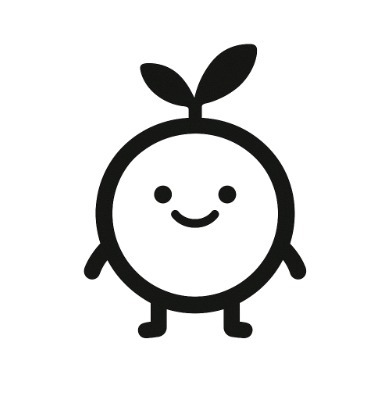
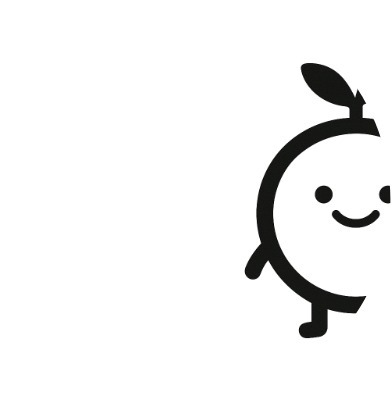
added state on page app so that Settings.js and NavBar.jsx can communicate. hwne updating image or name in Settings.jsx will also show on NavBar.jsx. Also fixed a bug where the image wouldnt have the appropriate Xposition when updating a state in Settings.jsx. I just had passed the wrong state varia

Changed region(s): [[0.2143, 0.09, 0.9796, 0.87], [0.7959, 0.45, 1.0, 0.57], [0.3673, 0.45, 0.6122, 0.57]]

diff --git a/app/frontend/pages/NavBar.jsx b/app/frontend/pages/NavBar.jsx
@@ -3,7 +3,7 @@ import { Link, useNavigate, Outlet } from 'react-router-dom'
 import { useEffect, useRef, useState } from 'react'
 import { SideBar, UserIcon, Logout, Settings, DiagonalArrow } from '../components/svgs/UtilIcons'
 
-export function NavBar(){
+export function NavBar({updatenavbarstate}){
 
     const navigate = useNavigate()
     const navloggedRef = useRef()
@@ -59,7 +59,6 @@ export function NavBar(){
                 loginRef.current.classList.add('display_none')
                 navloggedRef.current.classList.remove('display_none')
                 navloggedRef.current.classList.add('flex')
-                console.log('rerednerd*********')
                 GetUserImg()
             }    
     },[])
@@ -84,12 +83,34 @@ export function NavBar(){
             }
             else{
                 let img_path = import.meta.env.VITE_IMG_PATH + response + '.JPEG'
-                userimgsetState(<div className='nav_user flex justify-center align-center h-30px overflow-hidden'><img className='contain h-100 w-100' src={img_path}/></div>)
+                userimgsetState(<div className='nav_user nav_imgexist'><img className='nav_img' src={img_path}/></div>)
             }
 
         }
 
     }
+
+    useEffect(() => {
+        console.log('PUPUPUPUPU')
+        console.log('##############')
+        //return
+        if(updatenavbarstate[1] === 'name'){
+            if(updatenavbarstate[0] === ''){
+                namesetState('Info')
+            }
+            else{
+                namesetState('Hello, ' + updatenavbarstate[0])
+            }
+        }
+        else if(updatenavbarstate[1] === 'image'){
+            if(updatenavbarstate[0] === ''){
+                userimgsetState(<UserIcon width={30} height={30} className='nav_user'/>)
+            }
+            else{
+                userimgsetState(<div className='nav_user nav_imgexist'><img className='nav_img' src={updatenavbarstate[0]}/></div>)
+            }
+        }
+    },[updatenavbarstate])
 
     return(
         <>

diff --git a/app/frontend/pages/Settings.jsx b/app/frontend/pages/Settings.jsx
@@ -4,7 +4,7 @@ import { UserIconThin, PencilIcon, XCloseIcon, EyeIcon, EyeCloseIcon, Tick } fro
 import { useNavigate, Link } from 'react-router-dom'
 import html2canvas from 'html2canvas'
 
-export function Settings(){
+export function Settings({updatenavbarsetState}){
 
     const [iconstate, iconsetState] = useState()
     const [namestate, namesetState] = useState()
@@ -404,9 +404,11 @@ export function Settings(){
             else if(changevaltypeRef.current === 'name'){
                 if(changeinputRef.current.value === ''){
                     namesetState('Welcome, Back!')
+                    updatenavbarsetState(['', 'name'])
                 }
                 else{
                     namesetState('Welcome, ' + changeinputRef.current.value)
+                    updatenavbarsetState([changeinputRef.current.value, 'name'])
                 }
             }
             else if(changevaltypeRef.current === 'password'){
@@ -449,9 +451,11 @@ export function Settings(){
                 ChangeImgVisible()
                 PopUpOpenClose('close')
                 iconsetState(<UserIconThin className='settingsicon' onClick={() => PopUpOpenClose('open', 'Change Image', '', 'image')}/>)
+                updatenavbarsetState(['', 'image'])
                 return
             }
-            iconsetState(<img src={imgpreviewstate} className='settingsicon' onClick={() => PopUpOpenClose('open', 'Change Image', '', 'image')}/>)
+            iconsetState(<img src={changeimgstate} className='settingsicon' onClick={() => PopUpOpenClose('open', 'Change Image', '', 'image')}/>)
+            updatenavbarsetState([changeimgstate, 'image'])
             changeimguploadsetState('CHANGE IMAGE')
             ChangeImgVisible(true)
             PopUpOpenClose('close', '', '', '', false, true)

diff --git a/app/frontend/page.jsx b/app/frontend/page.jsx
@@ -10,20 +10,24 @@ import { TermsPolicies } from './pages/TermsPolicies'
 import { Settings } from './pages/Settings'
 import { Referal } from './pages/Referal'
 import { NavBar } from './pages/NavBar'
+import { useState } from 'react'
 
 export function Home() {
+
+    const [updatenavbarstate, updatenavbarsetState] = useState(['', ''])
+
     return(
         <Routes>
             <Route path='/login' element={<Login/>}/>
             <Route path='/register' element={<Register/>}/>
-            <Route element={<NavBar/>}>
+            <Route element={<NavBar updatenavbarstate={updatenavbarstate}/>}>
                 <Route path = '/' element = {<HomeMain/>} />
                 <Route path = '/chat'>
                     <Route index element={<ChatLobby/>}/>
                     <Route path=':id' element={<ChatLobby/>}/>
                 </Route>
                 <Route path = '/termspolicies' element = {<TermsPolicies/>}/>
-                <Route path = '/settings' element = {<Settings/>}/>
+                <Route path = '/settings' element = {<Settings updatenavbarsetState={updatenavbarsetState}/>}/>
                 <Route path = '/referalcodes' element = {<Referal/>}/>
             </Route>
         </Routes>

diff --git a/app/frontend/styling/NavBar.css b/app/frontend/styling/NavBar.css
@@ -160,3 +160,15 @@
     background-color: var(--color-text-main-hover-blue-experimental-lighter-evenmore-hover);
     color: #fff;
 }
+.nav_imgexist{
+    display: flex;
+    justify-content: center;
+    align-items: center;
+    overflow: hidden;
+    height: 30px;
+}
+.nav_img{
+    object-fit: contain;
+    width: 100%;
+    height: 100%;
+}
